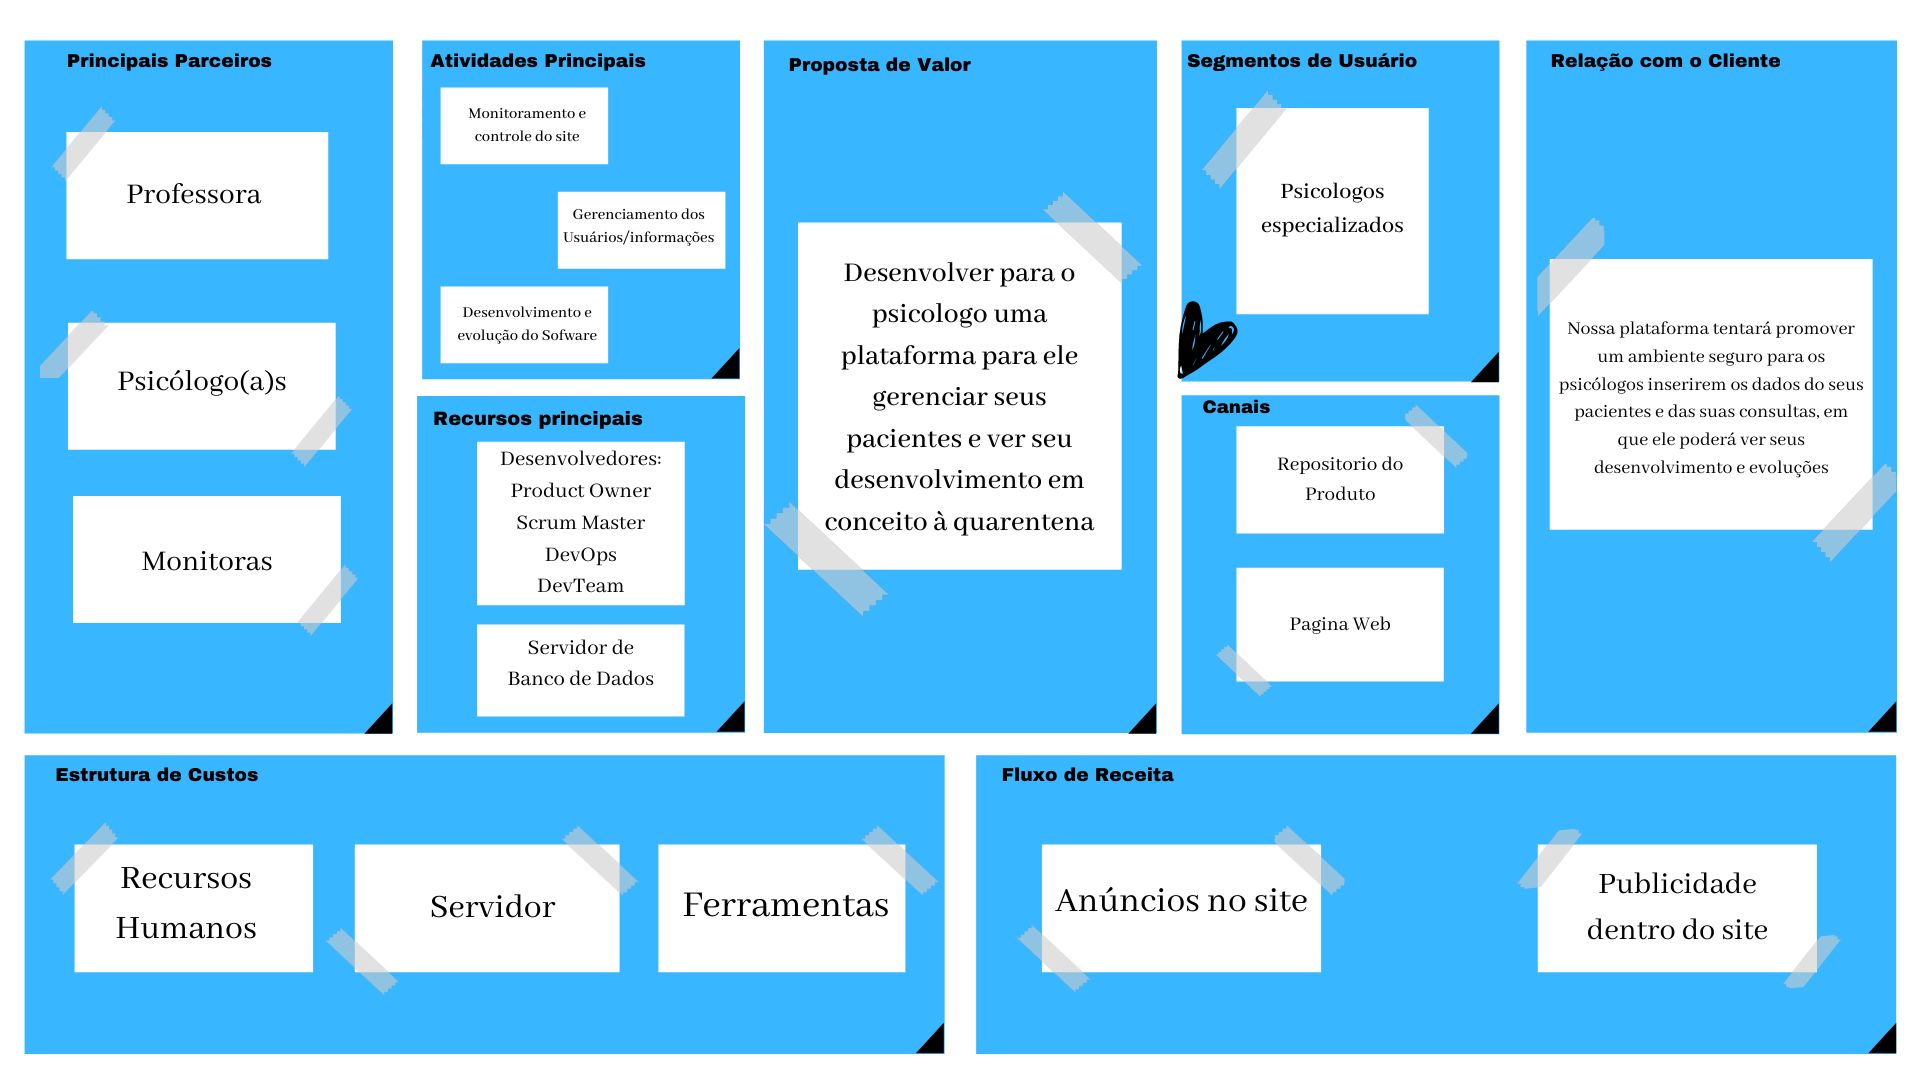
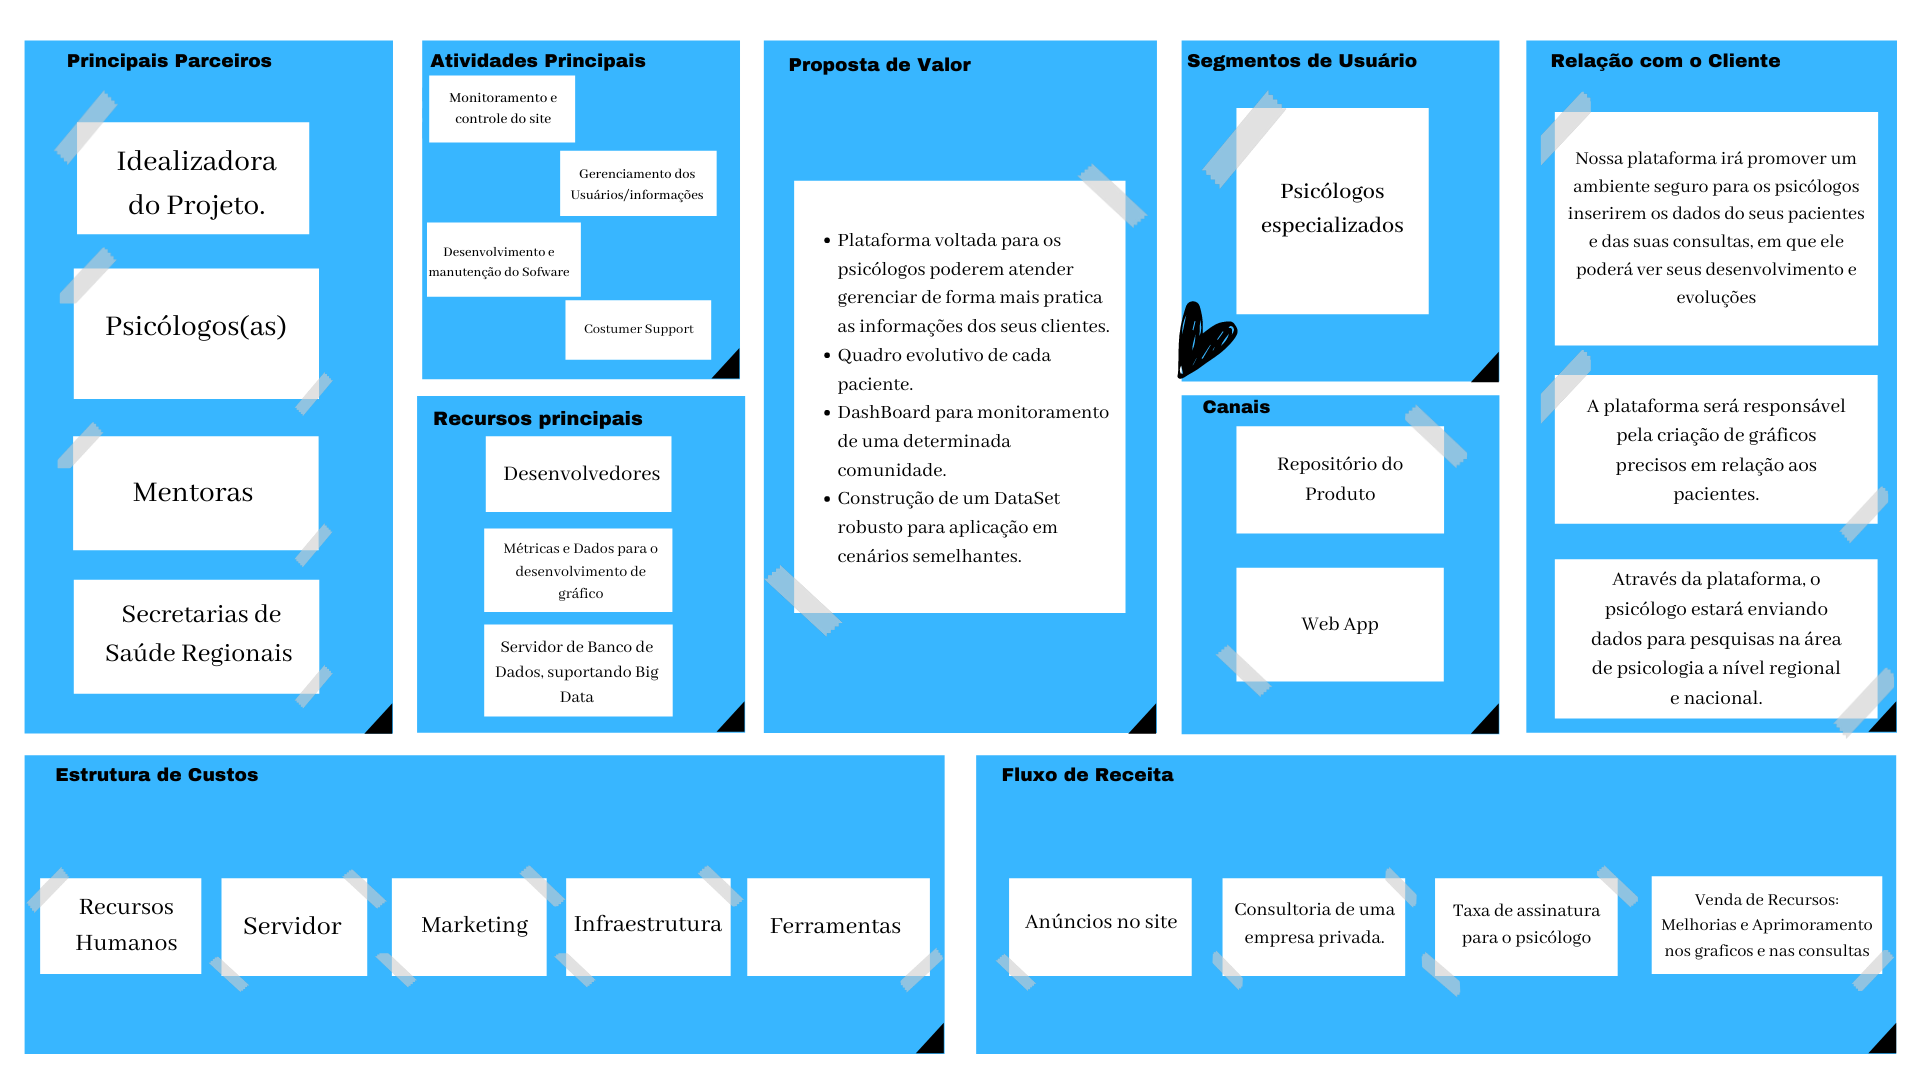
docs_att_RefatoraçãoCanvas #97

diff --git a/docs/wiki/Canvas.md b/docs/wiki/Canvas.md
@@ -3,10 +3,12 @@
 Data|Versão|Descrição|Autor
 -|-|-|-
 02/03/2021|1.0.0|Adição do Canvas| Davi Matheus|
-04/03/2021|1.1.0|Atualização dos Clientes| Davi Matheus e Abraão Alves|
+04/04/2021|1.1.0|Atualização dos Clientes| Davi Matheus e Abraão Alves|
+10/04/2021|2.0.0|Refatoração do Canvas | Davi Matheus, Abraão Alves, Nilvan Perez|
+10/04/2021|2.0.1|Revisão do Canvas | Lucas e Arthur| 
 
 <p align="center">
-	<img src="../assets/images/canvas.png" width="80%" height="80%">
+	<a href="https://ibb.co/xDT6QFk"><img src="https://i.ibb.co/G0SRjH6/Canvas.png" alt="Canvas" border="0"></a>
 </p>
 
 
